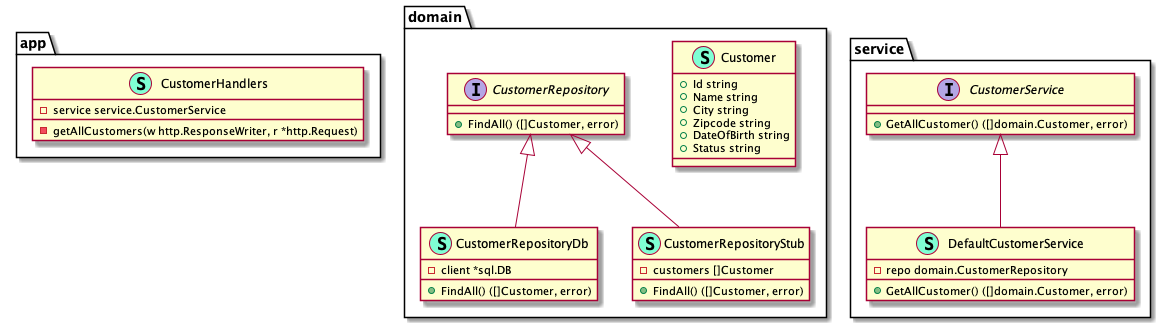
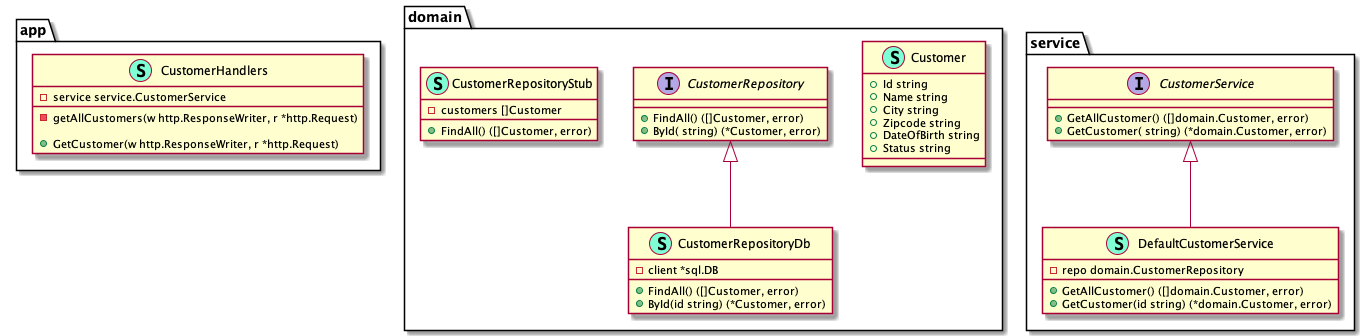
Add Customer retrieval by ID
Updated the folowing:
 - Added ById(string) to CustomerRepository Interface
 - Added implementation to CustomerReposityDB
 - To return nil, ById returns pointer to Customer
 - Handler wired up to router '/customer/{customer_id}

Known Problems:
 - CustomerRepositoryStub no longer honours interface

diff --git a/app/handlers.go b/app/handlers.go
@@ -3,9 +3,11 @@ package app
 import (
 	"encoding/json"
 	"encoding/xml"
+	"fmt"
 	"log"
 	"net/http"
 
+	"github.com/gorilla/mux"
 	"github.com/jceatwell/bankHexArch/domain"
 	"github.com/jceatwell/bankHexArch/service"
 )
@@ -43,5 +45,19 @@ func (ch *CustomerHandlers) getAllCustomers(w http.ResponseWriter, r *http.Reque
 	} else {
 		w.Header().Add("Content-Type", "application/json")
 		json.NewEncoder(w).Encode(customers)
+	}
+}
+
+func (ch *CustomerHandlers) GetCustomer(w http.ResponseWriter, r *http.Request) {
+	vars := mux.Vars(r)
+	id := vars["customer_id"]
+
+	customer, err := ch.service.GetCustomer(id)
+	if err != nil {
+		w.WriteHeader(http.StatusNotFound)
+		fmt.Fprintf(w, err.Error())
+	} else {
+		w.Header().Add("Content-Type", "application/json")
+		json.NewEncoder(w).Encode(customer)
 	}
 }

diff --git a/service/customerService.go b/service/customerService.go
@@ -5,6 +5,7 @@ import "github.com/jceatwell/bankHexArch/domain"
 // CustomerService : REST Port interface
 type CustomerService interface {
 	GetAllCustomer() ([]domain.Customer, error)
+	GetCustomer(string) (*domain.Customer, error)
 }
 
 // DefaultCustomerService : This is the Business Logic Domain
@@ -16,6 +17,10 @@ type DefaultCustomerService struct {
 // GetAllCustomer : Receiver function for getAllCutomers
 func (s DefaultCustomerService) GetAllCustomer() ([]domain.Customer, error) {
 	return s.repo.FindAll()
+}
+
+func (s DefaultCustomerService) GetCustomer(id string) (*domain.Customer, error) {
+	return s.repo.ById(id)
 }
 
 // NewCustomerService : factory helper funvyin to create default Customer REST Service

diff --git a/domain/customerRepositoryDB.go b/domain/customerRepositoryDB.go
@@ -37,6 +37,20 @@ func (d CustomerRepositoryDb) FindAll() ([]Customer, error) {
 	return customers, nil
 }
 
+func (d CustomerRepositoryDb) ById(id string) (*Customer, error) {
+	customerSQL := "select customer_id, name, city, zipcode, date_of_birth, status from customers where customer_id = ?"
+
+	row := d.client.QueryRow(customerSQL, id)
+	var c Customer
+	err := row.Scan(&c.Id, &c.Name, &c.City, &c.Zipcode, &c.DateOfBirth, &c.Status)
+	if err != nil {
+		log.Println("Error while scanning customer " + err.Error())
+		return nil, err
+	}
+
+	return &c, nil
+}
+
 // NewCustomerRepositoryDb : Factory Method
 func NewCustomerRepositoryDb() CustomerRepositoryDb {
 	// TODO: Need to bring in environmental variables

diff --git a/app/app.go b/app/app.go
@@ -16,6 +16,7 @@ func Start() {
 	router := mux.NewRouter()
 
 	// Wiring (Define Service Instance and Repository Instance)
+
 	// ch := CustomerHandlers{service.NewCustomerService(domain.NewCustomerRepositoryStub())}
 	ch := CustomerHandlers{
 		service: service.NewCustomerService(domain.NewCustomerRepositoryDb()),
@@ -23,6 +24,7 @@ func Start() {
 
 	// Define Routes
 	router.HandleFunc("/customers", ch.getAllCustomers).Methods(http.MethodGet)
+	router.HandleFunc("/customer/{customer_id:[0-9]+}", ch.GetCustomer).Methods(http.MethodGet)
 
 	// Start server
 	log.Fatal(http.ListenAndServe(":8080", router))

diff --git a/domain/customer.go b/domain/customer.go
@@ -14,4 +14,5 @@ type Customer struct {
 // Note: Anthing defining this protocol should be able to connect to this port
 type CustomerRepository interface {
 	FindAll() ([]Customer, error)
+	ById(string) (*Customer, error)
 }
